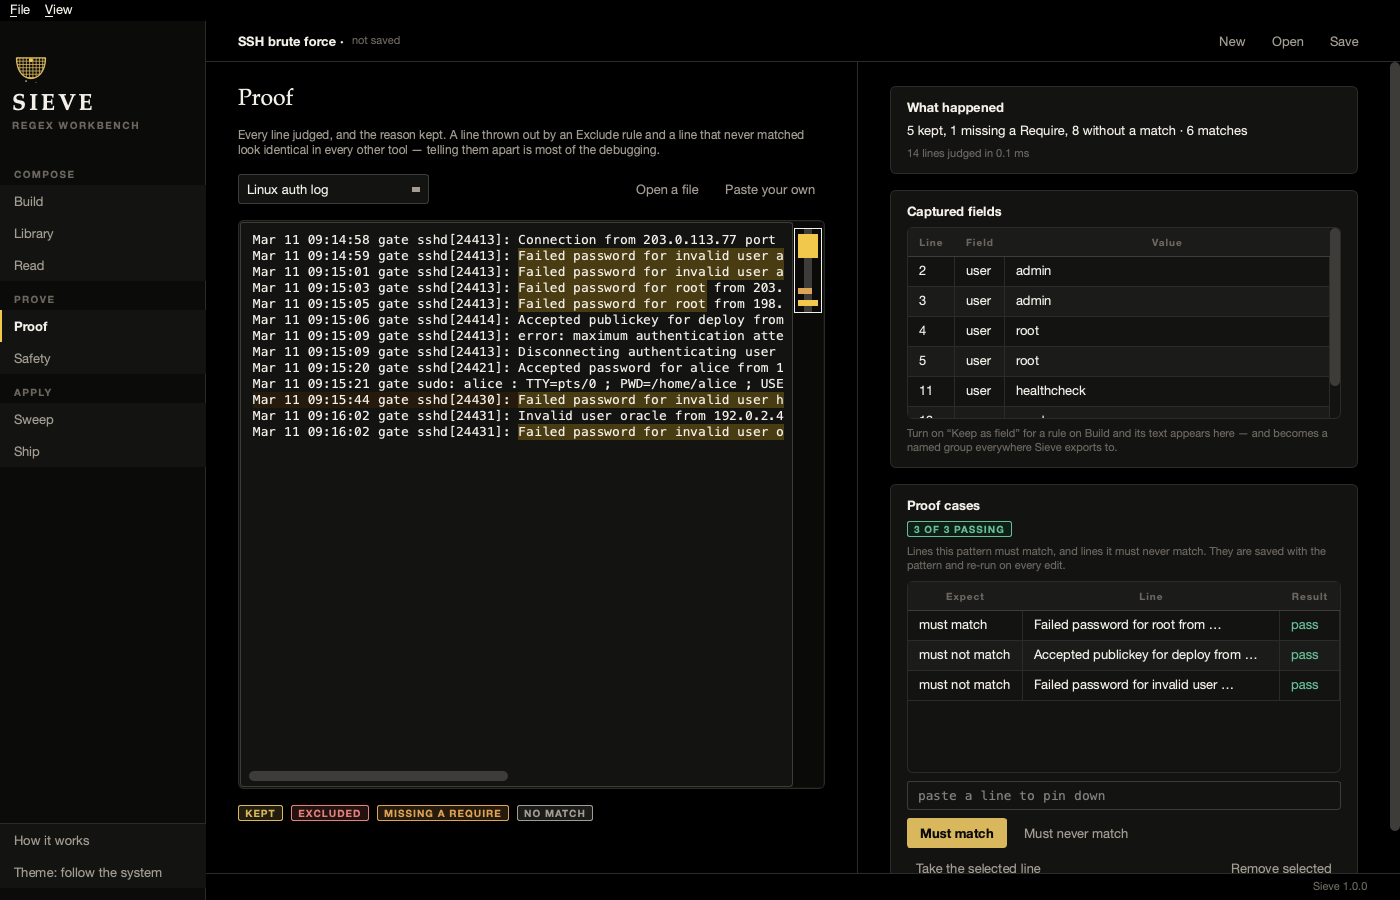
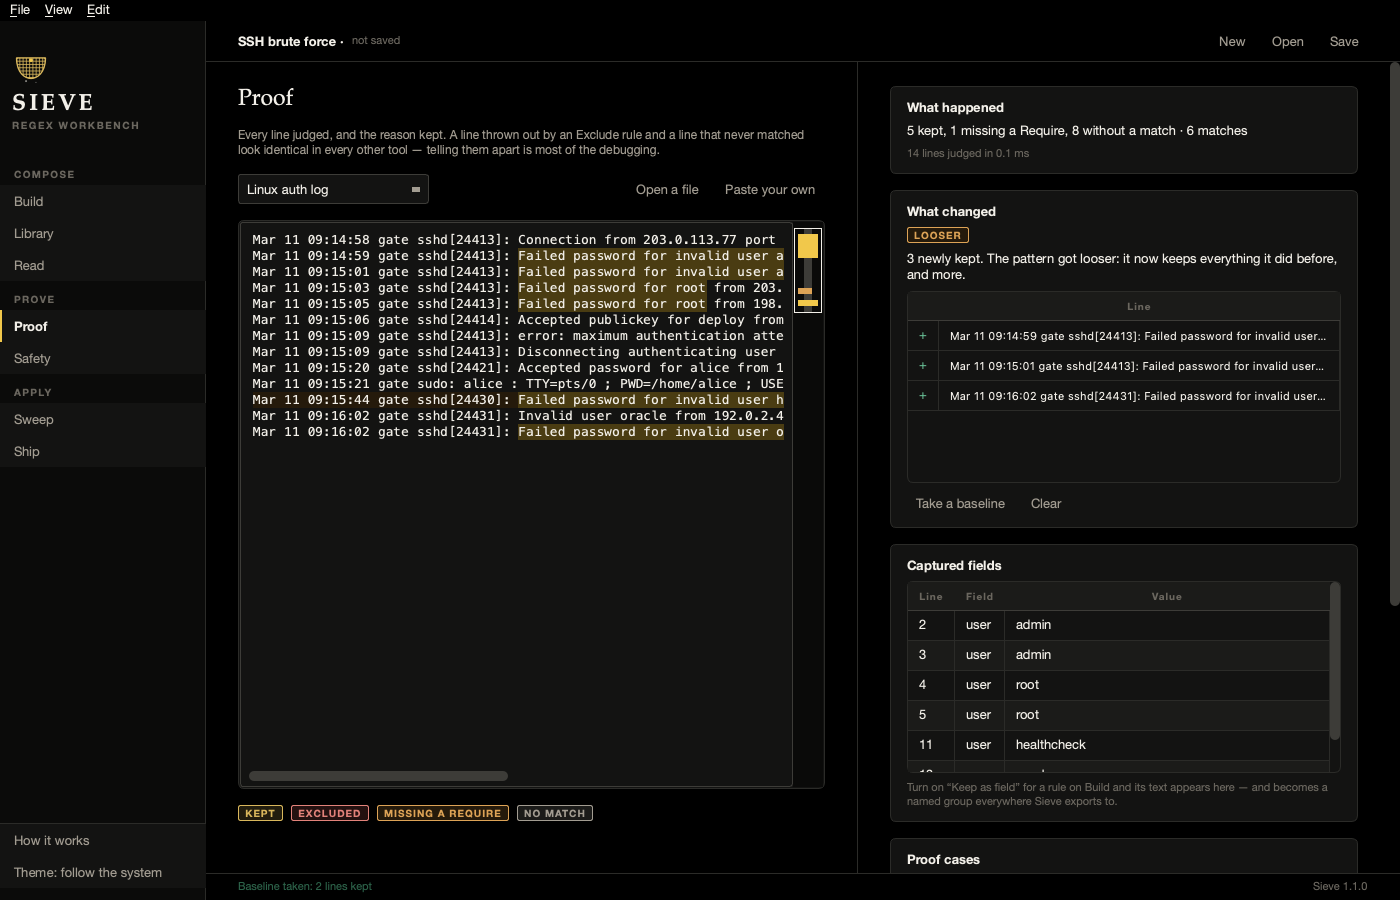
Answer "what did that edit let in?"
The question a detection engineer asks after every change, and no regex tool
answers it. You are left comparing two screens of highlighted text by eye,
which is the task people are worst at.

Take a baseline of what the pattern keeps, edit, and Proof shows the lines
that crossed in either direction — with a word for which way the pattern
moved. Looser (it keeps everything it did and more), stricter (everything it
keeps now, it kept before), or sideways, which is neither and is not called
either. It is a set difference; the value is entirely in nobody offering it.

Keyed on line text rather than line number, so the comparison survives the
corpus being scrolled, re-pasted or reordered.

A test caught the obvious trap while writing it: headline() counted the
truncated listing, so 500 changed lines reported as "10 newly kept" — the
same quiet lie as a truncated scan claiming it read the whole file. The real
counts are carried separately and the headline says how many are listed.

diff --git a/sieve/ui/pages/proof.py b/sieve/ui/pages/proof.py
@@ -11,7 +11,7 @@ change, so the cases travel with the pattern in the saved file.
 from __future__ import annotations
 
 from PyQt6.QtCore import Qt, QTimer
-from PyQt6.QtGui import QColor, QTextCursor, QTextFormat
+from PyQt6.QtGui import QColor, QFont, QTextCursor, QTextFormat
 from PyQt6.QtWidgets import (QAbstractItemView, QComboBox, QFileDialog,
                              QHBoxLayout,
                              QHeaderView, QLineEdit, QPlainTextEdit,
@@ -19,6 +19,7 @@ from PyQt6.QtWidgets import (QAbstractItemView, QComboBox, QFileDialog,
                              QTextEdit, QVBoxLayout, QWidget)
 
 from ...core import matcher, redos, samples
+from ...core.compare import Baseline, compare
 from ...core.proof import Case, SHOULD_MATCH, SHOULD_NOT
 from .. import theme
 from ..marks import MapRow, MatchMap
@@ -36,6 +37,7 @@ class ProofPage(QWidget):
         # pattern; cleared whenever the pattern changes.
         self._force_run = False
         self._screened: str | None = None
+        self._baseline: Baseline | None = None
 
         self._debounce = QTimer(self)
         self._debounce.setSingleShot(True)
@@ -132,6 +134,33 @@ class ProofPage(QWidget):
         self.timing = label("", object_name="Faint")
         tally.add(self.timing)
         box.addWidget(tally)
+
+        # The question after every edit is "what did that let in?", and no
+        # regex tool answers it. Take a baseline, edit, see what crossed.
+        diff = Card("What changed")
+        self.diff_state = Badge("no baseline", "neutral", self.mode)
+        diff.add_layout(row(self.diff_state, None))
+        self.diff_headline = label("", wrap=True)
+        diff.add(self.diff_headline)
+        self.diff_detail = QTableWidget(0, 2)
+        self.diff_detail.setHorizontalHeaderLabels(["", "Line"])
+        self.diff_detail.verticalHeader().setVisible(False)
+        self.diff_detail.setEditTriggers(QAbstractItemView.EditTrigger.NoEditTriggers)
+        self.diff_detail.horizontalHeader().setSectionResizeMode(
+            1, QHeaderView.ResizeMode.Stretch)
+        self.diff_detail.setMinimumHeight(110)
+        self.diff_detail.setMinimumWidth(200)
+        self.diff_detail.setVisible(False)
+        diff.add(self.diff_detail)
+        take = QuietButton("Take a baseline")
+        take.setToolTip("Remember what the pattern keeps right now, so the "
+                        "next edit can be measured against it")
+        take.clicked.connect(self._take_baseline)
+        self.clear_baseline = QuietButton("Clear")
+        self.clear_baseline.clicked.connect(self._clear_baseline)
+        self.clear_baseline.setVisible(False)
+        diff.add_layout(row(take, self.clear_baseline, None))
+        box.addWidget(diff)
 
         fields = Card("Captured fields")
         self.fields = QTableWidget(0, 3)
@@ -285,6 +314,7 @@ class ProofPage(QWidget):
         self._result = result
         self._paint(result)
         self._fill_fields(result)
+        self._update_diff()
         self._run_cases()
         self._sync_map()
 
@@ -384,6 +414,66 @@ class ProofPage(QWidget):
             self.fields.setItem(i, 2, QTableWidgetItem(value))
         self.fields.resizeColumnToContents(0)
         self.fields.resizeColumnToContents(1)
+
+    # -- comparison ----------------------------------------------------------
+
+    def _take_baseline(self) -> None:
+        if self._result is None or self._result.error:
+            self.state.status("Nothing to take a baseline of yet", "warn")
+            return
+        self._baseline = Baseline.of(self._result)
+        self.clear_baseline.setVisible(True)
+        self.state.status(
+            f"Baseline taken: {len(self._baseline.kept)} lines kept", "pass")
+        self._update_diff()
+
+    def _clear_baseline(self) -> None:
+        self._baseline = None
+        self.clear_baseline.setVisible(False)
+        self._update_diff()
+
+    def _update_diff(self) -> None:
+        if self._baseline is None or self._result is None or self._result.error:
+            self.diff_state.set_tone("neutral", "no baseline")
+            self.diff_headline.setText(
+                "Take a baseline, then edit the pattern. What crosses the line "
+                "in either direction appears here — which is the question you "
+                "are actually asking when you loosen a rule.")
+            self.diff_headline.setStyleSheet(
+                f"{theme.font_css('small')}"
+                f"color: {theme.color('ink_muted', self.mode)};")
+            self.diff_detail.setVisible(False)
+            return
+
+        difference = compare(self._baseline, self._result)
+        if not difference.changed:
+            self.diff_state.set_tone("neutral", "unchanged")
+        elif difference.gained and difference.lost:
+            self.diff_state.set_tone("warn", "moved sideways")
+        elif difference.gained:
+            self.diff_state.set_tone("warn", "looser")
+        else:
+            self.diff_state.set_tone("pass", "stricter")
+
+        self.diff_headline.setText(
+            difference.headline() + ". " + difference.direction())
+        self.diff_headline.setStyleSheet("")
+
+        rows = ([("+", line) for line in difference.gained]
+                + [("\u2212", line) for line in difference.lost])
+        self.diff_detail.setVisible(bool(rows))
+        self.diff_detail.setRowCount(len(rows))
+        mono = QFont(theme.MONO.split(",")[0]); mono.setPixelSize(11)
+        for i, (sign, line) in enumerate(rows):
+            mark = QTableWidgetItem(sign)
+            tone = "pass" if sign == "+" else "fail"
+            mark.setForeground(QColor(theme.color(tone, self.mode)))
+            self.diff_detail.setItem(i, 0, mark)
+            item = QTableWidgetItem(line)
+            item.setFont(mono)
+            item.setToolTip(line)
+            self.diff_detail.setItem(i, 1, item)
+        self.diff_detail.resizeColumnToContents(0)
 
     # -- proof cases ---------------------------------------------------------
 

diff --git a/sieve/core/compare.py b/sieve/core/compare.py
@@ -1,0 +1,98 @@
+"""
+What changed.
+
+The question a detection engineer asks after every edit is "I just loosened
+that rule — what did it let in?", and no regex tool answers it. You are left
+comparing two screens of highlighted text by eye, which is exactly the task
+people are worst at.
+
+So: take a baseline of what the pattern kept, edit, and get back the lines
+that crossed the line in either direction. It is a set difference, which is
+the whole point — it is trivial to compute and nobody offers it.
+"""
+
+from __future__ import annotations
+
+from dataclasses import dataclass, field
+
+from .matcher import LineResult, RunResult
+
+
+@dataclass(frozen=True)
+class Baseline:
+    """What a pattern kept at a moment in time."""
+
+    label: str
+    kept: frozenset[str]
+    total: int
+
+    @classmethod
+    def of(cls, result: RunResult, label: str = "") -> "Baseline":
+        # Keyed on the line's text rather than its number, so the comparison
+        # survives the corpus being scrolled, re-pasted or reordered. Two
+        # identical lines count once, which is the right answer for "what
+        # kind of thing did this let in".
+        return cls(label=label,
+                   kept=frozenset(l.text for l in result.lines if l.kept),
+                   total=len(result.lines))
+
+
+@dataclass
+class Difference:
+    """The lines that crossed the line, in either direction."""
+
+    gained: list[str] = field(default_factory=list)   # newly kept, listed
+    lost: list[str] = field(default_factory=list)     # no longer kept, listed
+    # The real counts. The lists above are a bounded sample, and reporting
+    # their length as the total would be the same quiet lie as a truncated
+    # scan claiming it read the whole file.
+    gained_total: int = 0
+    lost_total: int = 0
+    baseline_kept: int = 0
+    now_kept: int = 0
+
+    @property
+    def changed(self) -> bool:
+        return bool(self.gained_total or self.lost_total)
+
+    @property
+    def listing_is_partial(self) -> bool:
+        return (len(self.gained) < self.gained_total
+                or len(self.lost) < self.lost_total)
+
+    def headline(self) -> str:
+        if not self.changed:
+            return f"No change — still {self.now_kept} kept"
+        parts = []
+        if self.gained_total:
+            parts.append(f"{self.gained_total} newly kept")
+        if self.lost_total:
+            parts.append(f"{self.lost_total} no longer kept")
+        line = " · ".join(parts)
+        if self.listing_is_partial:
+            shown = len(self.gained) + len(self.lost)
+            line += f" ({shown} listed)"
+        return line
+
+    def direction(self) -> str:
+        """Plain language for which way the pattern moved."""
+        if not self.changed:
+            return "This edit changed nothing about what the pattern keeps."
+        if self.gained_total and not self.lost_total:
+            return ("The pattern got looser: it now keeps everything it did "
+                    "before, and more.")
+        if self.lost_total and not self.gained_total:
+            return ("The pattern got stricter: everything it keeps now, it "
+                    "kept before.")
+        return ("The pattern moved sideways: it gained some lines and lost "
+                "others, so this is not simply looser or stricter.")
+
+
+def compare(baseline: Baseline, result: RunResult, *, limit: int = 40) -> Difference:
+    """What `result` keeps that `baseline` did not, and the other way round."""
+    now = frozenset(l.text for l in result.lines if l.kept)
+    gained = sorted(now - baseline.kept)
+    lost = sorted(baseline.kept - now)
+    return Difference(gained=gained[:limit], lost=lost[:limit],
+                      gained_total=len(gained), lost_total=len(lost),
+                      baseline_kept=len(baseline.kept), now_kept=len(now))

diff --git a/tests/test_compare.py b/tests/test_compare.py
@@ -1,0 +1,89 @@
+"""
+Comparing a pattern against a baseline.
+
+The question after every edit is "what did that let in?". It is a set
+difference, which is why it is worth having: trivial to compute, and the thing
+people are worst at doing by eye across two screens of highlighted text.
+"""
+
+import pytest
+
+from sieve.core import matcher
+from sieve.core.compare import Baseline, compare
+from sieve.core.rules import EXCLUDE, Recipe, Rule
+from sieve.core.samples import SSH
+
+TIGHT = Recipe(rules=[Rule(pattern=r"Failed password for root", label="root")])
+LOOSE = Recipe(rules=[Rule(pattern=r"Failed password for \w+", label="any user")])
+
+
+def baseline_of(recipe, text=SSH.text):
+    return Baseline.of(matcher.run(recipe, text))
+
+
+def test_loosening_a_rule_is_reported_as_looser():
+    difference = compare(baseline_of(TIGHT), matcher.run(LOOSE, SSH.text))
+    assert difference.gained and not difference.lost
+    assert "looser" in difference.direction()
+    assert "newly kept" in difference.headline()
+
+
+def test_tightening_a_rule_is_reported_as_stricter():
+    difference = compare(baseline_of(LOOSE), matcher.run(TIGHT, SSH.text))
+    assert difference.lost and not difference.gained
+    assert "stricter" in difference.direction()
+
+
+def test_an_edit_that_changes_nothing_says_so():
+    difference = compare(baseline_of(TIGHT), matcher.run(TIGHT, SSH.text))
+    assert not difference.changed
+    assert "changed nothing" in difference.direction()
+    assert "No change" in difference.headline()
+
+
+def test_a_sideways_edit_is_not_called_looser_or_stricter():
+    """Gaining some lines and losing others is not a direction, and saying it
+    is would be the kind of confident wrong answer this tool avoids."""
+    other = Recipe(rules=[Rule(pattern=r"Accepted \w+ for \w+", label="success")])
+    difference = compare(baseline_of(TIGHT), matcher.run(other, SSH.text))
+    assert difference.gained and difference.lost
+    assert "sideways" in difference.direction()
+
+
+def test_returning_to_the_baseline_reads_as_unchanged():
+    """Loosen, then exclude what you loosened into: back where you started."""
+    restored = Recipe(rules=[
+        Rule(pattern=r"Failed password for \w+", label="any user"),
+        Rule(kind=EXCLUDE, pattern="invalid user", literal=True, label="skip")])
+    difference = compare(baseline_of(TIGHT), matcher.run(restored, SSH.text))
+    assert not difference.changed
+
+
+def test_the_comparison_keys_on_text_not_line_number():
+    """So it survives the corpus being scrolled, re-pasted or reordered."""
+    forward = "alpha one\nbeta two\ngamma three"
+    backward = "gamma three\nbeta two\nalpha one"
+    recipe = Recipe(rules=[Rule(pattern="beta", label="b")])
+    base = Baseline.of(matcher.run(recipe, forward))
+    assert not compare(base, matcher.run(recipe, backward)).changed
+
+
+def test_the_listing_is_bounded():
+    text = "\n".join(f"ERROR {i}" for i in range(500))
+    empty = Baseline.of(matcher.run(Recipe(rules=[Rule(pattern="nope")]), text))
+    difference = compare(empty, matcher.run(
+        Recipe(rules=[Rule(pattern="ERROR")]), text), limit=10)
+    assert len(difference.gained) == 10, "the listing should be bounded"
+    assert difference.gained_total == 500, "but the count should not be"
+    assert "500 newly kept" in difference.headline()
+    assert "10 listed" in difference.headline()
+    assert difference.listing_is_partial
+
+
+def test_counts_are_carried_even_when_the_listing_is_cut():
+    text = "\n".join(f"ERROR {i}" for i in range(50))
+    base = Baseline.of(matcher.run(Recipe(rules=[Rule(pattern="nope")]), text))
+    difference = compare(base, matcher.run(
+        Recipe(rules=[Rule(pattern="ERROR")]), text), limit=5)
+    assert difference.baseline_kept == 0
+    assert difference.now_kept == 50

diff --git a/tests/test_hostile.py b/tests/test_hostile.py
@@ -10,7 +10,6 @@ The corpus is untrusted too: it is a log, and logs contain whatever was written
 to them. None of it may hang, crash, or quietly change what a pattern means.
 """
 
-import json
 import re
 import signal
 import time
@@ -19,7 +18,7 @@ import pytest
 
 from sieve.core import explain, flavors, matcher, scan
 from sieve.core.rules import (MAX_REPEAT, Recipe, RecipeError, Repeat, Rule,
-                              safe_count, safe_group_name)
+                              safe_count)
 
 
 def within(seconds: float):
